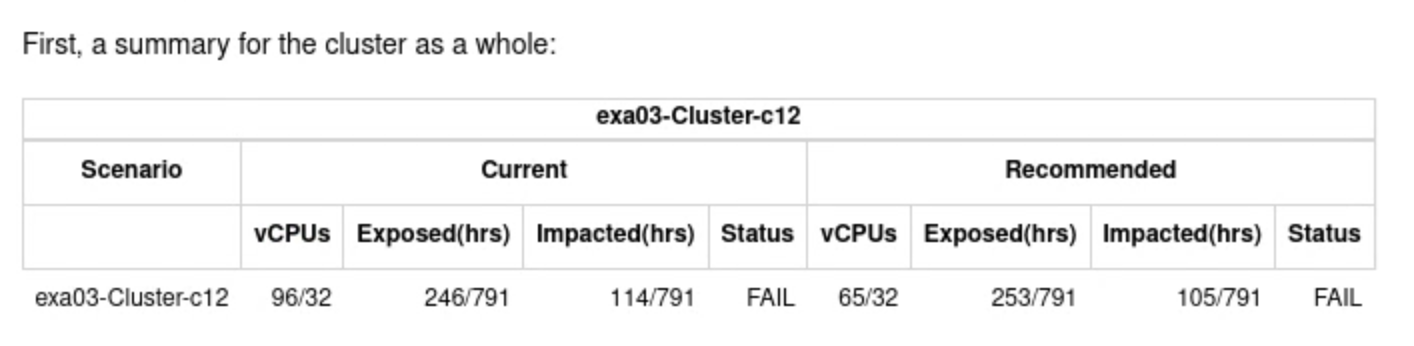
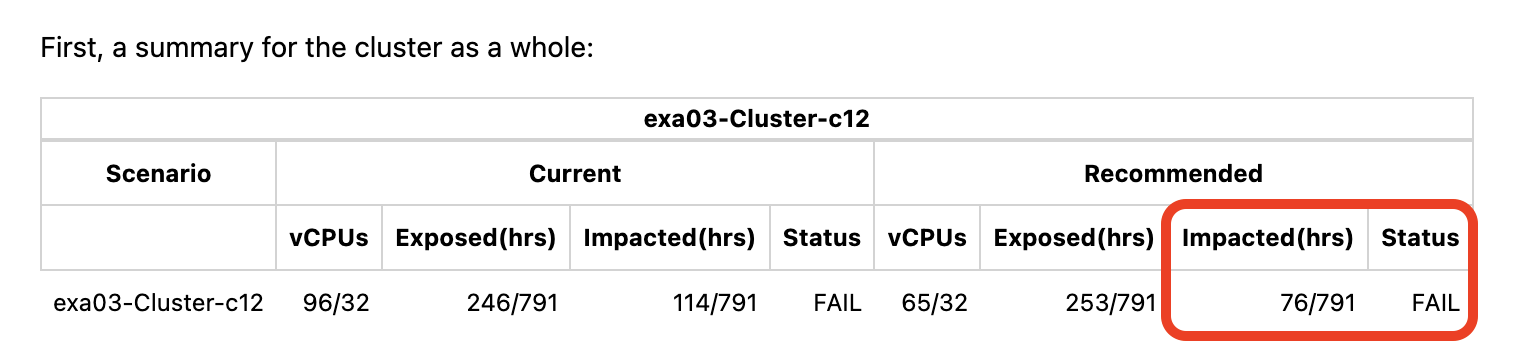
Exadata Management Pack Part 17
Exadata Management Pack Part 17

diff --git a/enterprise-manager/em24ai/em-exadata-mgmt/dbimpactadvisor/dbimpactadvisor.md b/enterprise-manager/em24ai/em-exadata-mgmt/dbimpactadvisor/dbimpactadvisor.md
@@ -185,13 +185,23 @@ them too loosely results in unnecessary hardware and Oracle license costs.
     ![Download or Open AHF report](images/clickahfbalancereport2.png " ")
 
     
-    **We have generated the AHF Balance report beforehand for the lab, and the details of the report are explained below.**
+    **Note: The AHF Balance Report has been pre-generated for this lab.**
+    
+    - Launch new tab in Google Chrome.
+    - Open the following URL to view the AHF Balance Report:
+        ```
+        <copy>
+        tinyurl.com/ahfreport
+        </copy>
+        ```
+    
+    **Details of the report is explained below.**
 
-    The report contains two parts Summary and Actions.
+    The report contains two parts: **Summary and Actions**.
     
-    **Cluster summary for exa03-Cluster-c12** shows that, after adjusting CPUs according to the recommended values, the exposed hours increased and impacted hours are reduced. 
-    
-    However, the database workloads are still operating above their guaranteed limits, which means they may continue to compete for additional CPU resources. So the status under recommendation shows as **FAIL**.
+    Cluster Summary for **exa03-Cluster-c12** shows that, after adjusting the CPUs based on the recommended values, the impacted hours have been reduced.
+
+    However, the database workloads are still running above their guaranteed limits, meaning they may continue to compete for additional CPU resources. As a result, the status under recommendation shows as **FAIL**.
     
     ![AHF Balance Report Summary](images/sampleahfbalancereport.png " ")
     
@@ -202,9 +212,9 @@ them too loosely results in unnecessary hardware and Oracle license costs.
 
     ![AHF Balance Report Summary](images/sampleahfbalancereport3.png " ")
 
-    With these recommended CPU values for each database, the report shows the exposed and impacted hours after the changes, and you can see that both have been reduced for **exa03cdb1db12 & exa03cdb2db12** but increased for **exa03cdb3db12** . However, the database workloads are still operating above their guaranteed limits, which means they may continue to compete for additional CPU resources.
+    With the recommended CPU values for each database, the report shows that the impacted hours for **exa03cdb1db12 and exa03cdb2db12** have been reduced. However, the database workload for **exa03cdb1db12** may still exceed its guaranteed limits, meaning it could continue to compete for additional CPU resources. As a result, the status of **exa03cdb1db12** is shown as FAIL under the recommended section.
 
-    Ideally, the cluster should be allocated more CPUs, or the databases should be moved to a cluster with available capacity.
+    Ideally, the cluster should be allocated additional CPUs, or the databases should be moved to a cluster with available capacity.   
 
     ![Sample AHF Balance Report](images/sampleahfbalancereport4.png " ")
 
